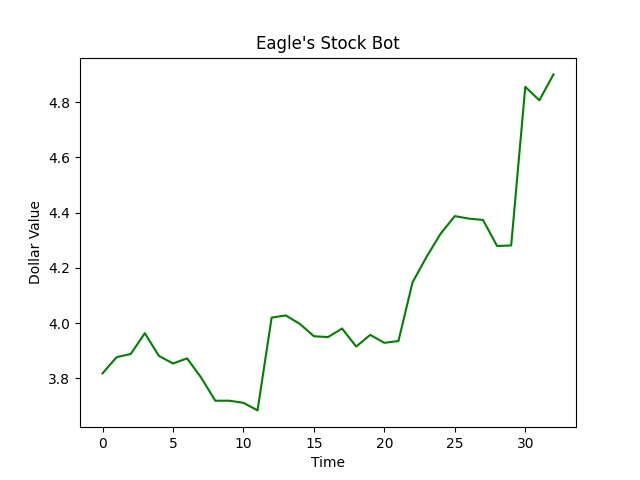
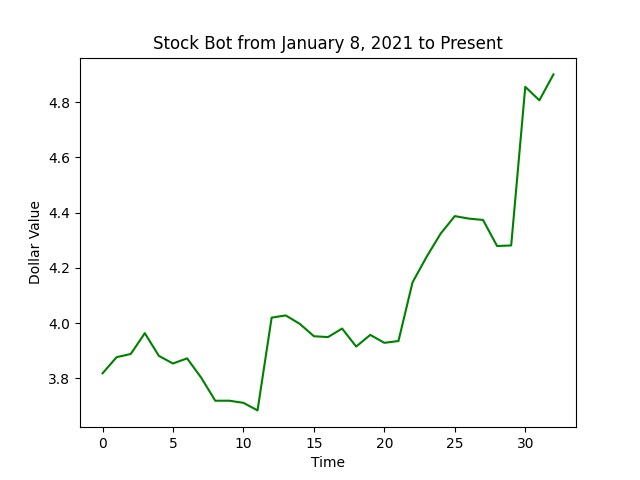
Updated projects page and graph of stocks

Changed region(s): [[0.2188, 0.0625, 0.7812, 0.125]]

diff --git a/projects.html b/projects.html
@@ -102,7 +102,7 @@
           <br><br>
           So how does this stock bot work? I first use the <a href="https://github.com/jmfernandes/robin_stocks" style="color:#78a175">robin_stocks</a> api to make Robinhood transactions in my Python script. In terms of how I determine whether to buy or sell stocks, I web scrape <a href="https://www.tradingview.com" style="color:#2296f3">TradingView</a> data.
           I sell based off the TradingView ratings, and I buy based off TradingView top movers, hence the name "Riding the Momentum". 
-          I'm not going to provide too much information about the algorithm as well as provide the source code as A) it has sensitive personal info, and B) initial run of the bot is very promising, so since this does pertain to profits, I will keep the code and info confidential.
+          I'm not going to provide too much information about the algorithm as well as provide the source code as A) it has sensitive personal info, and B) since this does pertain to money and profits, I will keep the code and info confidential.
           <br><br>
           I can say however that I am mainly making fractional share transactions, and currently I am running my continuous Python script on my personal computer. However, I do want to find remote hosts to run this script and am looking at solutions at both AWS and Heroku servers,
           but their free tier services are minimal, so if anyone has any good free tier remote servers, please reach out to me.
